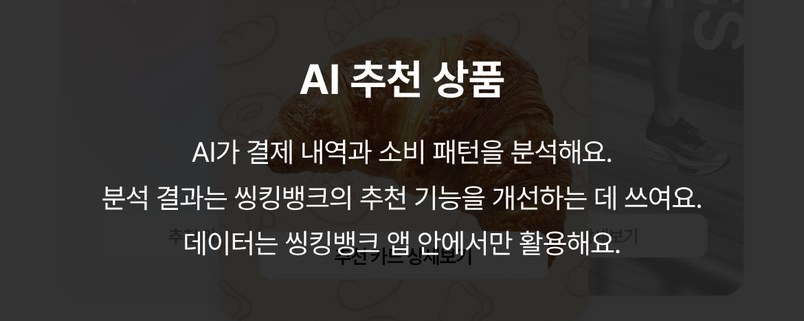
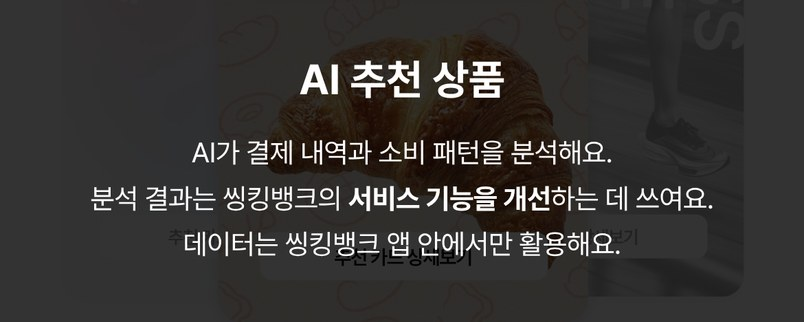
본실험: 고지 목적 구절 굵게, B '서비스 기능 개선', T2_q10 위치 이동 + 가린 고지 캡처
Claude-Session: https://claude.ai/code/session_012gUV7ezSBGMu5uWGs5Kzpf

diff --git a/Main.html b/Main.html
@@ -184,6 +184,7 @@ body.frameless .nav{bottom:14px}
 .n-card b{position:absolute;display:block;border-radius:2px;background:rgba(208,208,208,.5)}
 .n-title{position:absolute;left:0;width:402px;top:264px;text-align:center;color:#fff;font-size:21px;font-weight:700;line-height:25px}
 .n-body{position:absolute;left:0;width:402px;top:302px;padding:0 8px;text-align:center;color:#fff;font-size:14px;line-height:1.65;letter-spacing:-.2px;white-space:pre-line;word-break:keep-all}
+.n-body b{font-weight:700}
 .n-btn{position:absolute;left:129px;top:417px;width:144px;height:44px;border-radius:50px;background:rgba(160,160,160,.5);color:#fff;font-size:16px;font-weight:600;display:flex!important;align-items:center;justify-content:center;transition:color .45s ease}
 .n-btn.lock{color:rgba(255,255,255,.3);cursor:default}
 
@@ -616,6 +617,7 @@ const STUDY = {
       { id: 'T1_q7', no: '6', type: 'likert', text: '응답 확인을 위해 이 문항에서는 3을 선택해 주세요.' },   // 주의 점검: 정답 3
       { id: 'T1_q8', no: '7', type: 'likert', text: '제시된 화면은 실제 서비스 이용 과정에서 볼 수 있을 법한 화면이었다.' }
     ] },
+    // 11/8: T2_q10(조작 점검)을 6번 뒤로 옮기고 가린 고지 캡처를 붙임 — 열 이름은 그대로, 화면 번호만 7(q10)·8(q7)·9(q8)·10(q9)
     T2: { title: '방금 본 화면을 떠올리며 답해주세요.', sub: true, items: [
       { id: 'T2_q1_1', no: '1-1', type: 'likert', text: '나는 여전히 {B} 브랜드를 신뢰한다.' },
       { id: 'T2_q1_2', no: '1-2', type: 'likert', text: '나는 여전히 {B} 브랜드에 의지할 수 있다.' },
@@ -634,10 +636,11 @@ const STUDY = {
       { id: 'T2_q6_1', no: '6-1', type: 'likert', text: '이번 문제 이후에도 이 브랜드({app}, 씽킹트래블)를 다시 믿고 의지할 의향이 있다.' },
       { id: 'T2_q6_2', no: '6-2', type: 'likert', text: '이번 문제가 발생했더라도 이 브랜드({app}, 씽킹트래블)에 대한 신뢰는 회복될 수 있다.' },
       { id: 'T2_q6_3', no: '6-3', type: 'likert', text: '이 브랜드가 나를 실망시키더라도 나는 이 브랜드({app}, 씽킹트래블)에 다시 한번 기회를 줄 의향이 있다.' },
-      { id: 'T2_q7', no: '7', type: 'choice', other: true, text: '씽킹트래블(여행)의 AI 추천 여행지 화면에 따르면 개인정보({src})의 출처는 어디입니까?', options: ['앞서 이용한 {B}의 이용 데이터', '씽킹트래블(여행) 내부에서 생성된 데이터', '외부 광고회사', '기타'] },   // 정답 1 · 기타는 T2_q7_etc 열
-      { id: 'T2_q8', no: '8', type: 'choice', other: true, text: '씽킹트래블(여행)의 AI 추천 여행지 화면에 따르면 개인정보({src})가 활용된 목적은 무엇인가요?', options: ['AI 여행지 추천', '기존 서비스의 오류 수정', '기타'] },   // 정답 1 · 기타는 T2_q8_etc 열
-      { id: 'T2_q9', no: '9', type: 'likert', text: '응답 확인을 위해 이 문항에서는 6을 선택해 주세요.' },   // 주의 점검: 정답 6
-      { id: 'T2_q10', no: '10', type: 'choice', other: true, text: '{B}의 {tab} 탭에서 본 AI 추천 안내 팝업은 내 {data} 데이터를 무엇에 활용한다고 설명했나요?', options: ['{tab} 탭의 {item} 목록 구성을 위해', '{B}의 추천 기능 개선을 위해', '{benefit}', '기타'] },   // 조작 점검: 정답 A=1, B=2, C=3 · 기타는 T2_q10_etc 열
+      { type: 'fig', src: 'img/cap_mask_{cond}.jpg', alt: '{tab} 탭에서 본 AI 추천 안내 (목적 문장부터 가림)' },   // 조작 점검용: 공통 문장까지만 보이고 목적 문장부터 회색 막대
+      { id: 'T2_q10', no: '7', type: 'choice', other: true, text: '아래 화면처럼 {B}의 {tab} 탭에 처음 들어갔을 때 뜬 AI 추천 안내 팝업은 내 {data} 데이터를 무엇에 활용한다고 설명했나요?', options: ['{tab} 탭의 {item} 목록 구성을 위해', '{B}의 서비스 기능 개선을 위해', '{benefit}', '기타'] },   // 조작 점검: 정답 A=1, B=2, C=3 · 기타는 T2_q10_etc 열
+      { id: 'T2_q7', no: '8', type: 'choice', other: true, text: '씽킹트래블(여행)의 AI 추천 여행지 화면에 따르면 개인정보({src})의 출처는 어디입니까?', options: ['앞서 이용한 {B}의 이용 데이터', '씽킹트래블(여행) 내부에서 생성된 데이터', '외부 광고회사', '기타'] },   // 정답 1 · 기타는 T2_q7_etc 열
+      { id: 'T2_q8', no: '9', type: 'choice', other: true, text: '씽킹트래블(여행)의 AI 추천 여행지 화면에 따르면 개인정보({src})가 활용된 목적은 무엇인가요?', options: ['AI 여행지 추천', '기존 서비스의 오류 수정', '기타'] },   // 정답 1 · 기타는 T2_q8_etc 열
+      { id: 'T2_q9', no: '10', type: 'likert', text: '응답 확인을 위해 이 문항에서는 6을 선택해 주세요.' },   // 주의 점검: 정답 6
       { id: 'T2_q11', no: '11', type: 'likert', text: '제시된 화면은 실제 서비스 이용 과정에서 볼 수 있을 법한 화면이었다.' },
       { id: 'T2_q12', no: '12', type: 'likert', text: '나는 실제로 씽킹 서비스를 이용하는 상황이라고 생각하며 응답했다.' }
     ] }
@@ -703,13 +706,13 @@ const SBAR = `<div class="sbar"><span class="time">9:41</span><span class="islan
 // 고지: 리드 · ★ 목적 문장 · 범위 약속 세 줄. ★ 줄만 조건마다 달라요 (W10 피드백 반영, 11/3 수정본).
 const NOTICE = {
   fin: { title: 'AI 추천 상품', lead: 'AI가 결제 내역과 소비 패턴을 분석해요.', scope: '데이터는 씽킹뱅크 앱 안에서만 활용해요.',
-    A: '분석 결과로 이 화면의 금융 상품 목록을 구성해 보여드려요.',
-    B: '분석 결과는 씽킹뱅크의 추천 기능을 개선하는 데 쓰여요.',
-    C: '분석 결과로 고객님 맞춤 할인·적립 혜택을 찾아드려요.' },
+    A: '분석 결과로 이 화면의 <b>금융 상품 목록을 구성</b>해 보여드려요.',
+    B: '분석 결과는 씽킹뱅크의 <b>서비스 기능을 개선</b>하는 데 쓰여요.',
+    C: '분석 결과로 고객님 <b>맞춤 할인·적립 혜택</b>을 찾아드려요.' },
   ott: { title: 'AI 추천 콘텐츠', lead: 'AI가 시청 이력과 검색 기록을 분석해요.', scope: '데이터는 씽킹플레이 앱 안에서만 활용해요.',
-    A: '분석 결과로 이 화면의 콘텐츠 목록을 구성해 보여드려요.',
-    B: '분석 결과는 씽킹플레이의 추천 기능을 개선하는 데 쓰여요.',
-    C: '분석 결과로 고객님이 좋아할 만한 콘텐츠를 찾아드려요.' }
+    A: '분석 결과로 이 화면의 <b>콘텐츠 목록을 구성</b>해 보여드려요.',
+    B: '분석 결과는 씽킹플레이의 <b>서비스 기능을 개선</b>하는 데 쓰여요.',
+    C: '분석 결과로 고객님이 <b>좋아할 만한 콘텐츠를 찾아</b>드려요.' }
 };
 
 // 카드 상세 내용은 팀 검토용 초안입니다.

diff --git a/README.md b/README.md
@@ -15,6 +15,8 @@
 - 참여자 번호: MS001… (미니 재검사 RT…와 따로 세고, 조건 배정도 MS끼리만 맞춰요)
 - 응답 저장: 본실험 전용 시트 (Main.html의 STUDY.endpoint)
 - T1 6번(고지 인지) 삭제 — 열 이름 T1_q7(품질점검)·T1_q8(현실성)은 그대로, 화면 번호만 6·7
+- 11/7 23:45~ 고지 닫기 잠금 5초 (이전 2초)
+- 11/8 00:3x~ 고지 목적 구절 굵게 · B 문구 '서비스 기능 개선' · T2_q10을 6번 뒤(화면 7번)로 옮기고 목적 문장부터 가린 고지 캡처(img/cap_mask_*.jpg) 표시 — 열 이름은 그대로
 
 ## 미니 재검사 (MiniEx.html) — 본실험과 같은 화면·문항
 - 참여자 링크: https://yujinchocho.github.io/DCC/MiniEx.html
